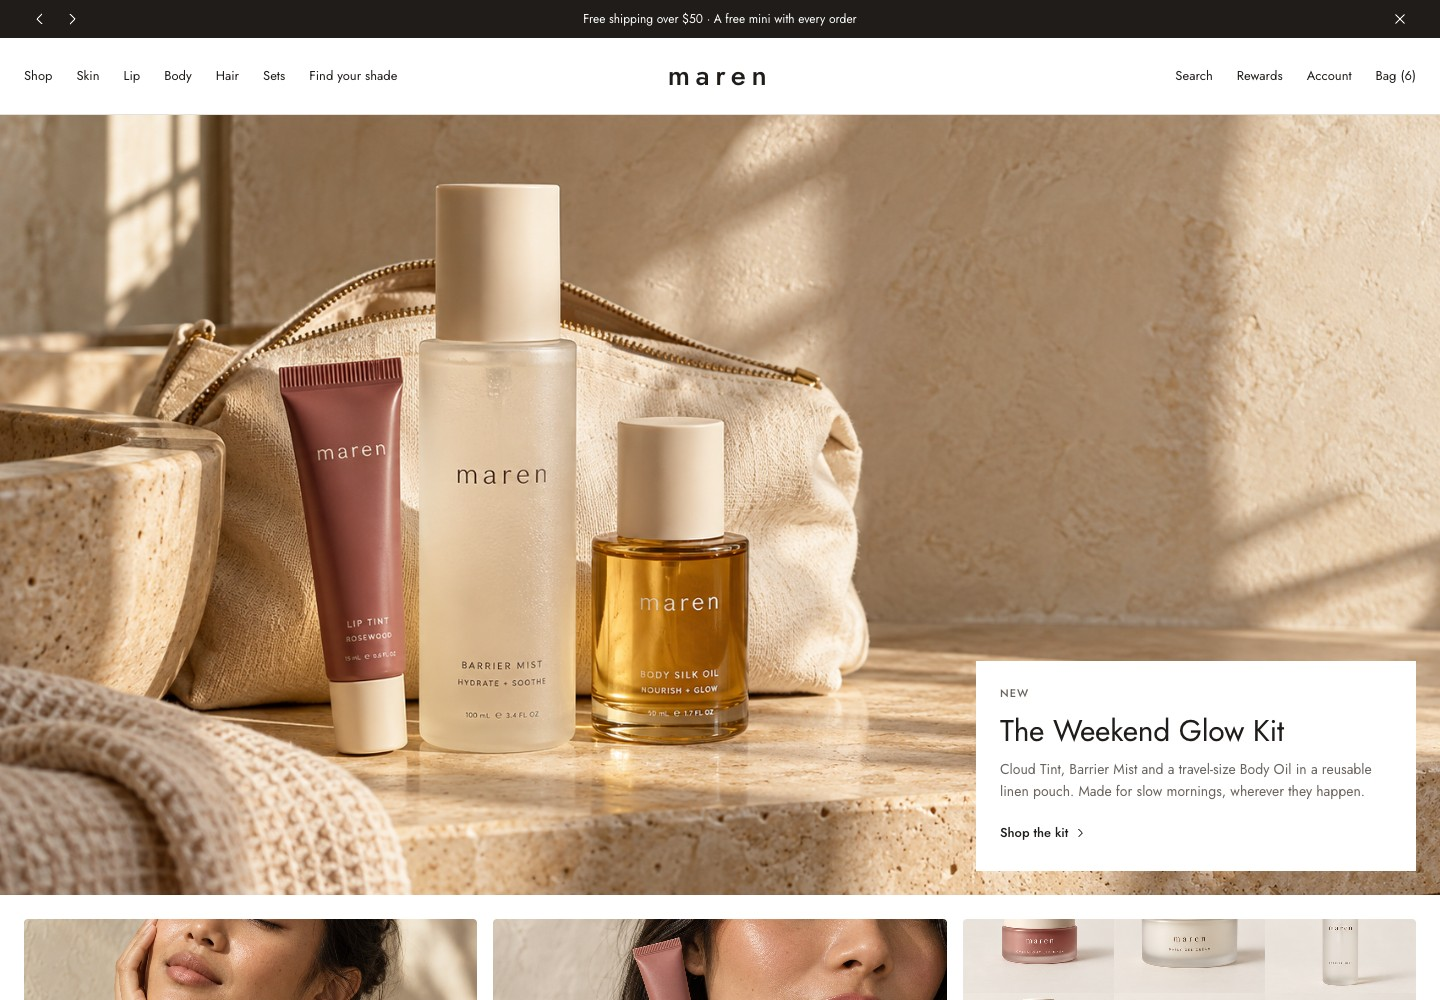
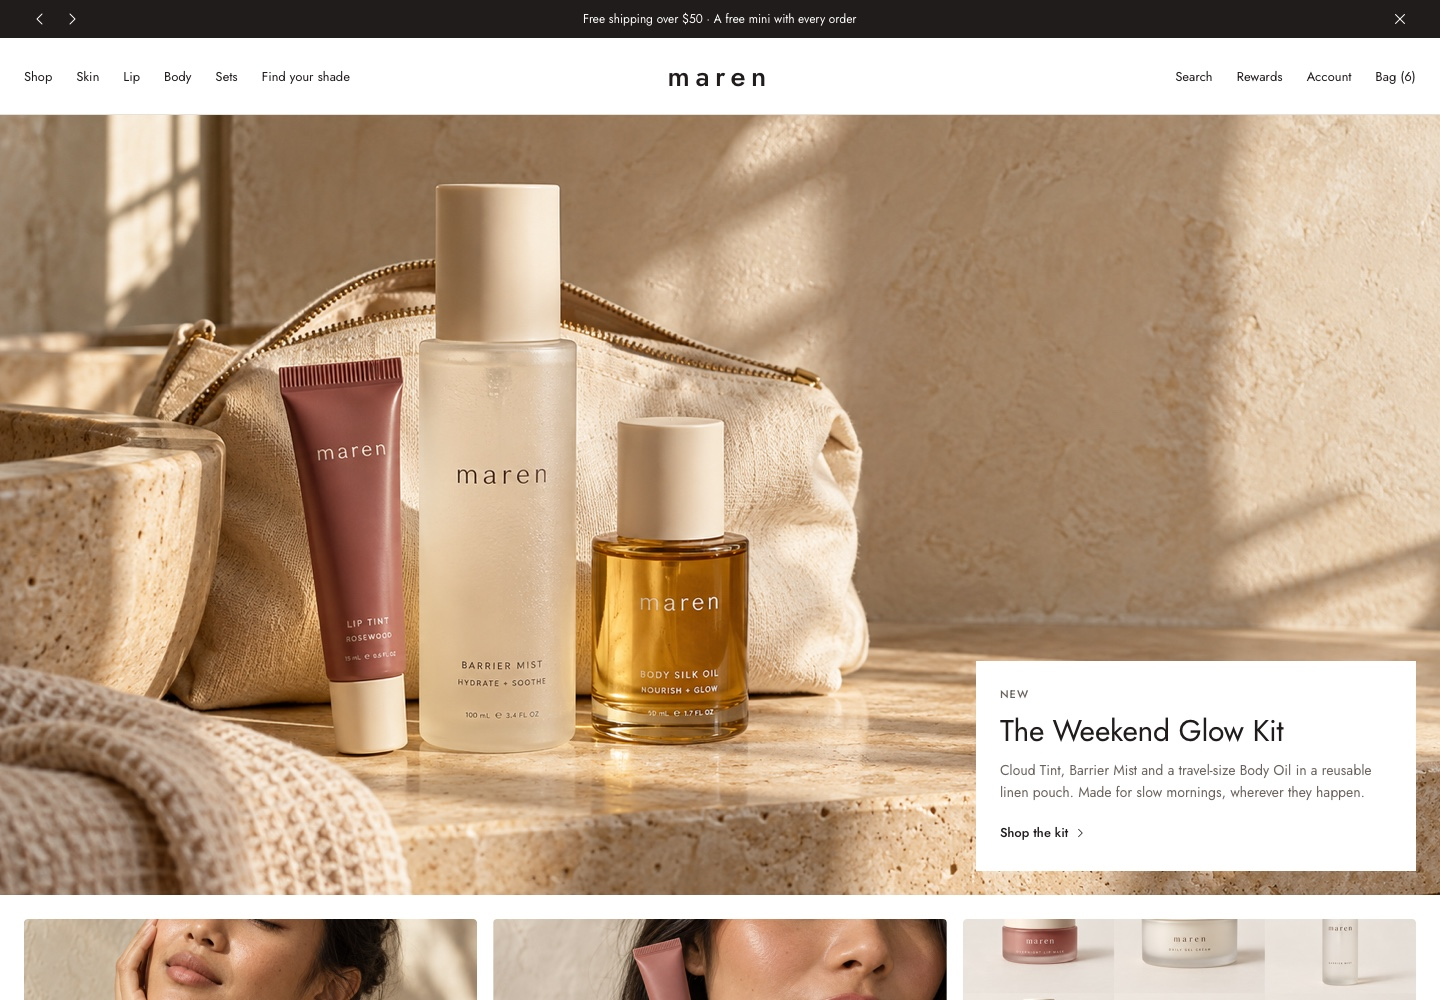
Retire legacy Maren products and migrate saved bags to current catalog

diff --git a/apps/maren-botanical/scripts/check-browser.js b/apps/maren-botanical/scripts/check-browser.js
@@ -11,6 +11,42 @@ async (previewPage) => {
   await page.emulateMedia({ reducedMotion: "reduce" });
   await page.setViewportSize({ width: 1440, height: 1000 });
   await page.goto(base);
+  await page.evaluate(() => localStorage.setItem('maren-bag', JSON.stringify({
+    'restore-shampoo': 1, 'restore-conditioner': 2, 'root-serum': 1, 'the-restore-set': 1,
+  })));
+  await page.reload();
+  await page.getByRole('button', {name:'Bag (0)',exact:true}).click();
+  check(await page.getByText('Your bag is empty.',{exact:true}).isVisible(), 'Old-only bag was not cleared');
+  check(await page.evaluate(() => localStorage.getItem('maren-bag') === '{}'), 'Legacy products remain in saved cart');
+  await page.getByRole('button', {name:'Close dialog',exact:true}).click();
+  await page.waitForFunction(() => !document.querySelector('dialog').open);
+  await page.evaluate(() => localStorage.setItem('maren-bag', JSON.stringify({
+    'restore-shampoo': 1, 'root-serum': 2, 'barrier-mist': 2, 'cloud-tint-fig': 1,
+  })));
+  await page.reload();
+  await page.getByRole('button', {name:'Bag (3)',exact:true}).click();
+  check((await page.locator('.bag-item').count()) === 2, 'Mixed bag migration removed current products or retained old products');
+  check((await page.locator('.bag-total').innerText()).includes('$80'), 'Migrated bag subtotal is wrong');
+  check(await page.locator('.bag-thumbnail img').evaluateAll(images => images.every(image => image.getAttribute('src').startsWith('/images/v5/'))), 'Bag still uses legacy imagery');
+  check(await page.evaluate(() => {
+    const cart=JSON.parse(localStorage.getItem('maren-bag'));
+    return cart['barrier-mist'] === 2 && cart['cloud-tint-fig'] === 1 && Object.keys(cart).length === 2;
+  }), 'Mixed cart migration was not persisted');
+  await page.waitForFunction(() => [...document.querySelectorAll('.bag-thumbnail img')].every(image => image.complete && image.naturalWidth > 0));
+  await page.setViewportSize({width:390,height:844});
+  await page.screenshot({path:'output/playwright/maren-bag-migrated-mobile.png'});
+  await page.setViewportSize({width:1440,height:1000});
+  await page.getByRole('button', {name:'Close dialog',exact:true}).click();
+  await page.waitForFunction(() => !document.querySelector('dialog').open);
+  await page.getByRole('button', {name:'Search',exact:true}).click();
+  await page.getByRole('searchbox').fill('Restore');
+  check((await page.locator('.search-results > a').count()) === 0, 'Legacy products remain searchable');
+  await page.goto(base + '/shop');
+  check((await page.locator('.beauty-card').count()) === 16, 'Shop does not match the current beauty catalog');
+  check(await page.locator('.beauty-card img').evaluateAll(images => images.every(image => image.getAttribute('src').startsWith('/images/v5/'))), 'Shop still uses legacy product imagery');
+  await page.goto(base + '/products/restore-shampoo');
+  check(await page.getByRole('heading', {name:'A little lost?',exact:true}).isVisible(), 'Legacy product route still accepts purchases');
+  await page.goto(base);
   await page.evaluate(() => localStorage.removeItem("maren-bag"));
   await page.reload();
   await page.evaluate(() => document.fonts.ready);
@@ -122,6 +158,10 @@ async (previewPage) => {
     { width: 844, height: 390 },
   ]) {
     await page.setViewportSize(viewport);
+    check(await page.locator('.bag-dialog').evaluate(el => {
+      const box=el.getBoundingClientRect();
+      return Math.abs(box.width - Math.min(520, innerWidth - 32)) < 1;
+    }), 'Bag drawer occupies the full mobile width');
     check(
       await page.locator(".bag-summary").evaluate((el) => {
         const box = el.getBoundingClientRect();
@@ -313,6 +353,10 @@ async (previewPage) => {
   await page.setViewportSize({ width: 390, height: 844 });
   await page.evaluate(() => scrollTo(0, 0));
   await page.getByRole("button", { name: "Menu", exact: true }).click();
+  check(await page.locator('.menu-dialog').evaluate(el => {
+    const box=el.getBoundingClientRect();
+    return Math.abs(box.width - (innerWidth - 32)) < 1;
+  }), 'Mobile menu width is inconsistent with the bag');
   await page
     .locator("#mobile-navigation")
     .getByRole("link", { name: "Lip", exact: true })
@@ -489,6 +533,7 @@ async (previewPage) => {
       "centered products and looping through five shades",
       "keyboard, product click and drag",
       "cart variants, totals and persistence",
+      "old-only and mixed saved cart migration, current product images and retired product routes",
       "bag summary visibility and scrollable items at desktop, mobile and short landscape sizes",
       "consistent dropdown arrow spacing at eight widths",
       "dialog focus",

diff --git a/apps/maren-botanical/src/App.tsx b/apps/maren-botanical/src/App.tsx
@@ -25,7 +25,6 @@ import {
   steps,
   stories,
   studySummary,
-  hairProducts,
   type Cart,
 } from "./content";
 
@@ -69,8 +68,8 @@ function Shell() {
   const noticeTimer = useRef<ReturnType<typeof setTimeout> | undefined>(
     undefined,
   );
-  const count = Object.values(cart).reduce(
-    (sum, quantity) => sum + quantity,
+  const count = products.reduce(
+    (sum, product) => sum + (cart[product.slug] ?? 0),
     0,
   );
   const total = products.reduce(
@@ -193,9 +192,6 @@ function Shell() {
           </Link>
           <Link to="/" hash="body">
             Body
-          </Link>
-          <Link to="/shop" hash="hair">
-            Hair
           </Link>
           <Link to="/" hash="sets">
             Sets
@@ -588,20 +584,12 @@ function Shop() {
         Your everyday <em>essentials.</em>
       </h1>
       <p className="listing-description">
-        A considered edit of skin, lip, body and hair care.
+        A considered edit of skin, lip and body care.
       </p>
       <div className="beauty-grid">
         {beautyProducts.map((product) => (
           <ProductCard key={product.slug} product={product} />
         ))}
-      </div>
-      <div id="hair" className="hair-collection">
-        <h2>The haircare ritual</h2>
-        <div className="beauty-grid">
-          {hairProducts.map((product) => (
-            <ProductCard key={product.slug} product={product} />
-          ))}
-        </div>
       </div>
     </section>
   );
@@ -629,19 +617,13 @@ function Product() {
         <details>
           <summary>How to use</summary>
           <p>
-            {product.slug === "the-restore-set"
-              ? steps.map((s) => s.instruction).join(" ")
-              : (steps[hairProducts.findIndex((p) => p.slug === product.slug)]
-                  ?.instruction ??
-                "Apply as part of your daily routine. Follow the directions supplied with your product.")}
+            Apply as part of your daily routine. Follow the directions supplied with your product.
           </p>
         </details>
         <details>
           <summary>Formula notes</summary>
           <p>
-            {hairProducts.some((p) => p.slug === product.slug)
-              ? ingredients.map((i) => i.name).join(" · ")
-              : "A considered formula designed to fit into your everyday routine. See the product packaging for the complete ingredient list."}
+            A considered formula designed to fit into your everyday routine. See the product packaging for the complete ingredient list.
           </p>
         </details>
       </div>
@@ -693,7 +675,7 @@ const info: Record<string, { title: string; paragraphs: string[] }> = {
   "our-story": {
     title: "Beauty, with intention.",
     paragraphs: [
-      "A considered edit of skin, lip, body and hair essentials — fewer steps, better formulas, made to fit into your day.",
+      "A considered edit of skin, lip and body essentials — fewer steps, better formulas, made to fit into your day.",
       "This independent template contains demonstration brand content. Replace the product copy, claims and policies with your own before launching.",
     ],
   },
@@ -712,7 +694,7 @@ const info: Record<string, { title: string; paragraphs: string[] }> = {
     ],
   },
   contact: {
-    title: "Let’s talk haircare",
+    title: "Let’s talk beauty",
     paragraphs: [
       "Thanks for exploring Maren. Add your business email and customer service details here before publishing your store.",
     ],

diff --git a/apps/maren-botanical/src/content.ts b/apps/maren-botanical/src/content.ts
@@ -1,45 +1,3 @@
-export const hairProducts = [
-  {
-    slug: "restore-shampoo",
-    name: "Restore Shampoo",
-    step: "Step 01 — Cleanse",
-    image: "shampoo",
-    price: 38,
-    tag: "New",
-    description:
-      "A gentle botanical cleanse for the scalp. Stinging nettle and ginseng lift buildup without stripping your hair’s natural oils.",
-  },
-  {
-    slug: "restore-conditioner",
-    name: "Restore Conditioner",
-    step: "Step 02 — Condition",
-    image: "conditioner",
-    price: 38,
-    description:
-      "A nourishing conditioner for softer lengths. Botanical oils help replenish moisture, smooth the strand and make detangling a little easier.",
-  },
-  {
-    slug: "root-serum",
-    name: "Root Serum",
-    step: "Step 03 — Treat",
-    image: "serum",
-    price: 64,
-    tag: "Bestseller",
-    description:
-      "A lightweight daily scalp serum. A considered blend of botanicals supports your scalp’s natural balance without weighing your hair down.",
-  },
-  {
-    slug: "the-restore-set",
-    name: "The Restore Set",
-    step: "All three steps",
-    image: "restore-set",
-    price: 119,
-    tag: "Save 15%",
-    description:
-      "The complete Restore Ritual: shampoo, conditioner and root serum. Three complementary formulas, one simple routine.",
-  },
-];
-
 export type ShopProduct = {
   slug: string;
   name: string;
@@ -203,7 +161,7 @@ export const beautyProducts: ShopProduct[] = [
     description: shade.description,
   })),
 ];
-export const products: ShopProduct[] = [...beautyProducts, ...hairProducts];
+export const products: ShopProduct[] = beautyProducts;
 
 export const ingredients = [
   {

diff --git a/apps/maren-botanical/src/Beauty.tsx b/apps/maren-botanical/src/Beauty.tsx
@@ -508,7 +508,7 @@ export function BeautyHome({ onAdd }: { onAdd: Add }) {
           Beauty, with <em>intention.</em>
         </h2>
         <p>
-          A considered edit of skin, lip, body and hair essentials — fewer
+          A considered edit of skin, lip and body essentials — fewer
           steps, better formulas, made to fit into your day.
         </p>
         <Link
@@ -731,7 +731,6 @@ export function BeautyFooter() {
               "Skin",
               "Lip",
               "Body",
-              "Hair",
               "Sets",
             ].map((label) => (
               <Link key={label} to="/shop">

diff --git a/apps/maren-botanical/src/styles.css b/apps/maren-botanical/src/styles.css
@@ -1157,7 +1157,8 @@ input {
   margin: 0 0 0 auto;
   max-height: none;
   height: 100dvh;
-  width: min(520px, 100%);
+  width: min(520px, calc(100% - 32px));
+  max-width: calc(100% - 32px);
   border-radius: 0;
   border: 0;
 }
@@ -1169,7 +1170,6 @@ input {
 }
 .bag-dialog {
   overflow: hidden;
-  max-width: 100%;
   border-radius: 0;
 }
 .bag-dialog .dialog-inner {
@@ -1615,12 +1615,6 @@ details p {
 }
 .listing-page .beauty-grid {
   row-gap: 48px;
-}
-.hair-collection {
-  margin-top: 64px;
-}
-.hair-collection > h2 {
-  margin-bottom: 24px;
 }
 .number-width {
   visibility: hidden;

diff --git a/apps/maren-botanical/design-qa.md b/apps/maren-botanical/design-qa.md
@@ -14,6 +14,7 @@ Reference: Figma file `34T8K3XRn2jL4OlaIcbVMu`, frame `1687:2` (1440 × 7855), s
 - Dialog close leaves the native modal open through its exit animation, then restores focus and scrolling. Reduced motion closes without a delay.
 - Cart totals, quantity bounds, storage recovery, search, product routes, unknown-slug 404, reward accordion, and newsletter validation pass.
 - The Bag uses the v5 typography, cream product tiles, square quantity controls, shipping progress, and a fixed summary beneath the scrolling item list. Its summary and last item remain reachable at 1440 × 900, 390 × 844, 320 × 480, and 844 × 390 in Chromium and WebKit.
+- Bag and Menu use the same drawer width: up to 520px with a 32px mobile side gap. Saved carts containing retired Restore products are tested before clearing browser storage: old-only bags become empty; mixed bags retain current products, quantities, totals, and v5 images. Retired products are absent from search, shop, and purchasable product routes.
 - All product size selectors share a Phosphor caret with a 14px right inset and reserved text padding. The native select remains operable; alignment is verified at all eight responsive widths.
 - Promotion arrows change three sample messages. Close removes the strip until refresh.
 - Footer images retain a square aspect ratio at every checked width. At maximum scroll, the footer bottom matches the viewport bottom; copyright and legal links remain reachable.

diff --git a/apps/maren-botanical/README.md b/apps/maren-botanical/README.md
@@ -29,7 +29,7 @@ The Sets slides the same three products in a loop. Dialogs wait for their exit a
 
 The promotion strip includes previous/next arrows, three sample promotions, and a close button. Dismissal lasts until refresh. Footer images remain square, and the document scrolls naturally through the social links and copyright.
 
-Search, product pages, cart variants/quantities, locally persisted bag, mobile navigation, rewards accordion, and newsletter validation work. Original haircare products and journal routes remain available. Checkout, accounts, and newsletter sending are demo flows; no payment or information is sent.
+Search, product pages, cart variants/quantities, locally persisted bag, mobile navigation, rewards accordion, and newsletter validation work. The catalog uses only the current beauty products and v5 imagery. Saved carts automatically discard retired haircare products while retaining current products and quantities. Journal routes remain available. Checkout, accounts, and newsletter sending are demo flows; no payment or information is sent.
 
 ## Customize
 
